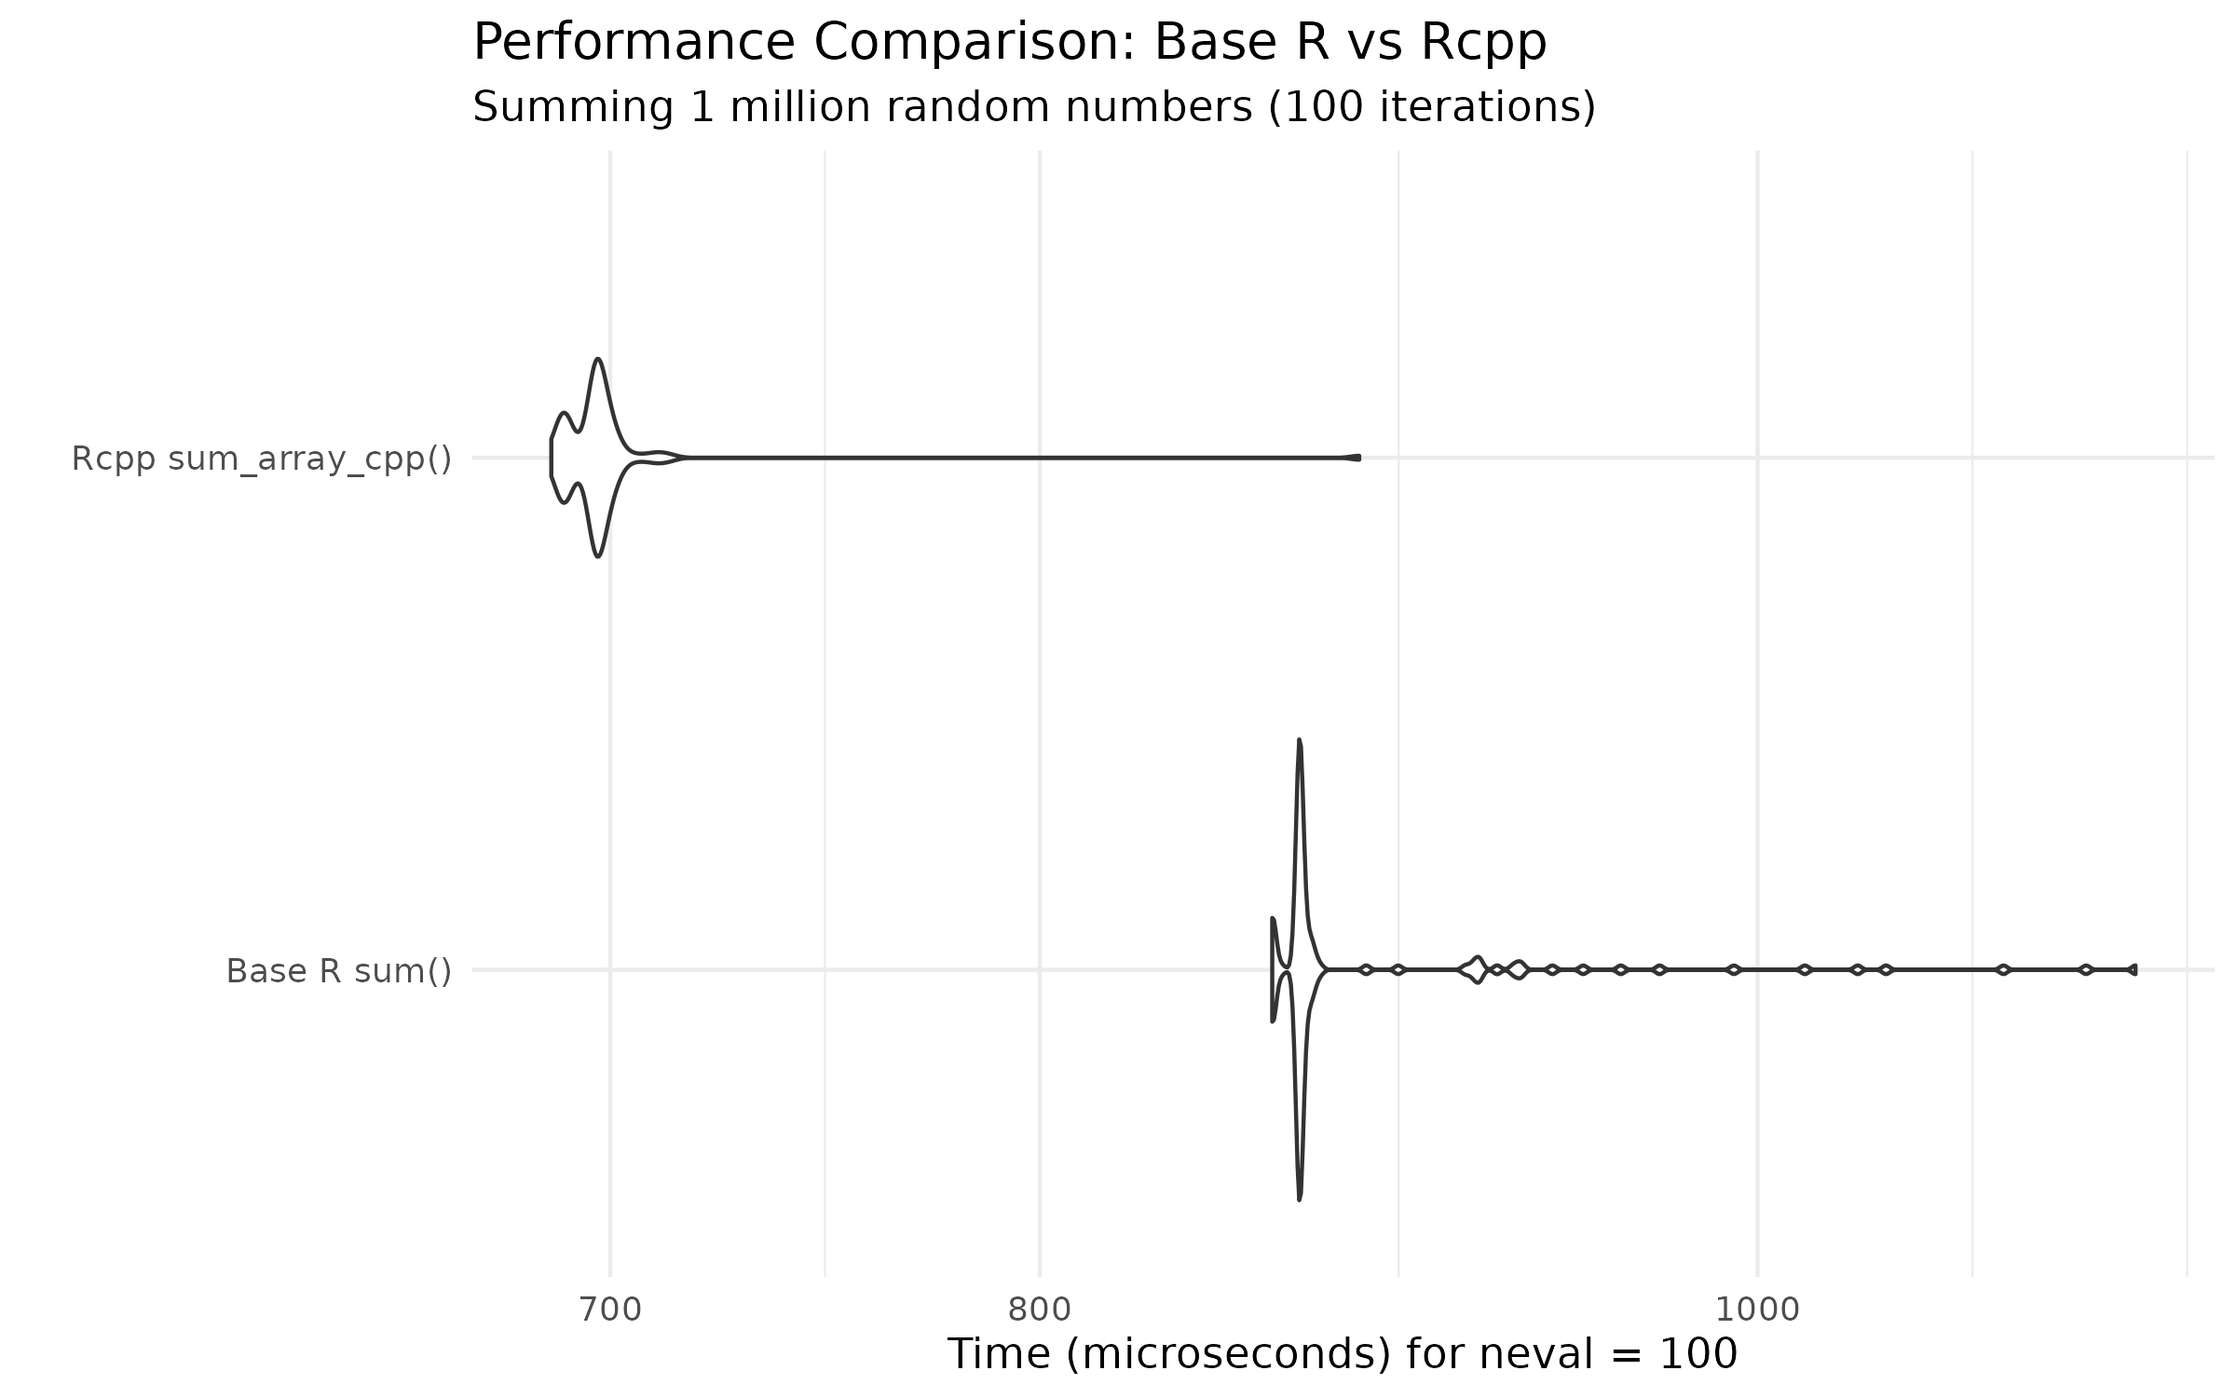
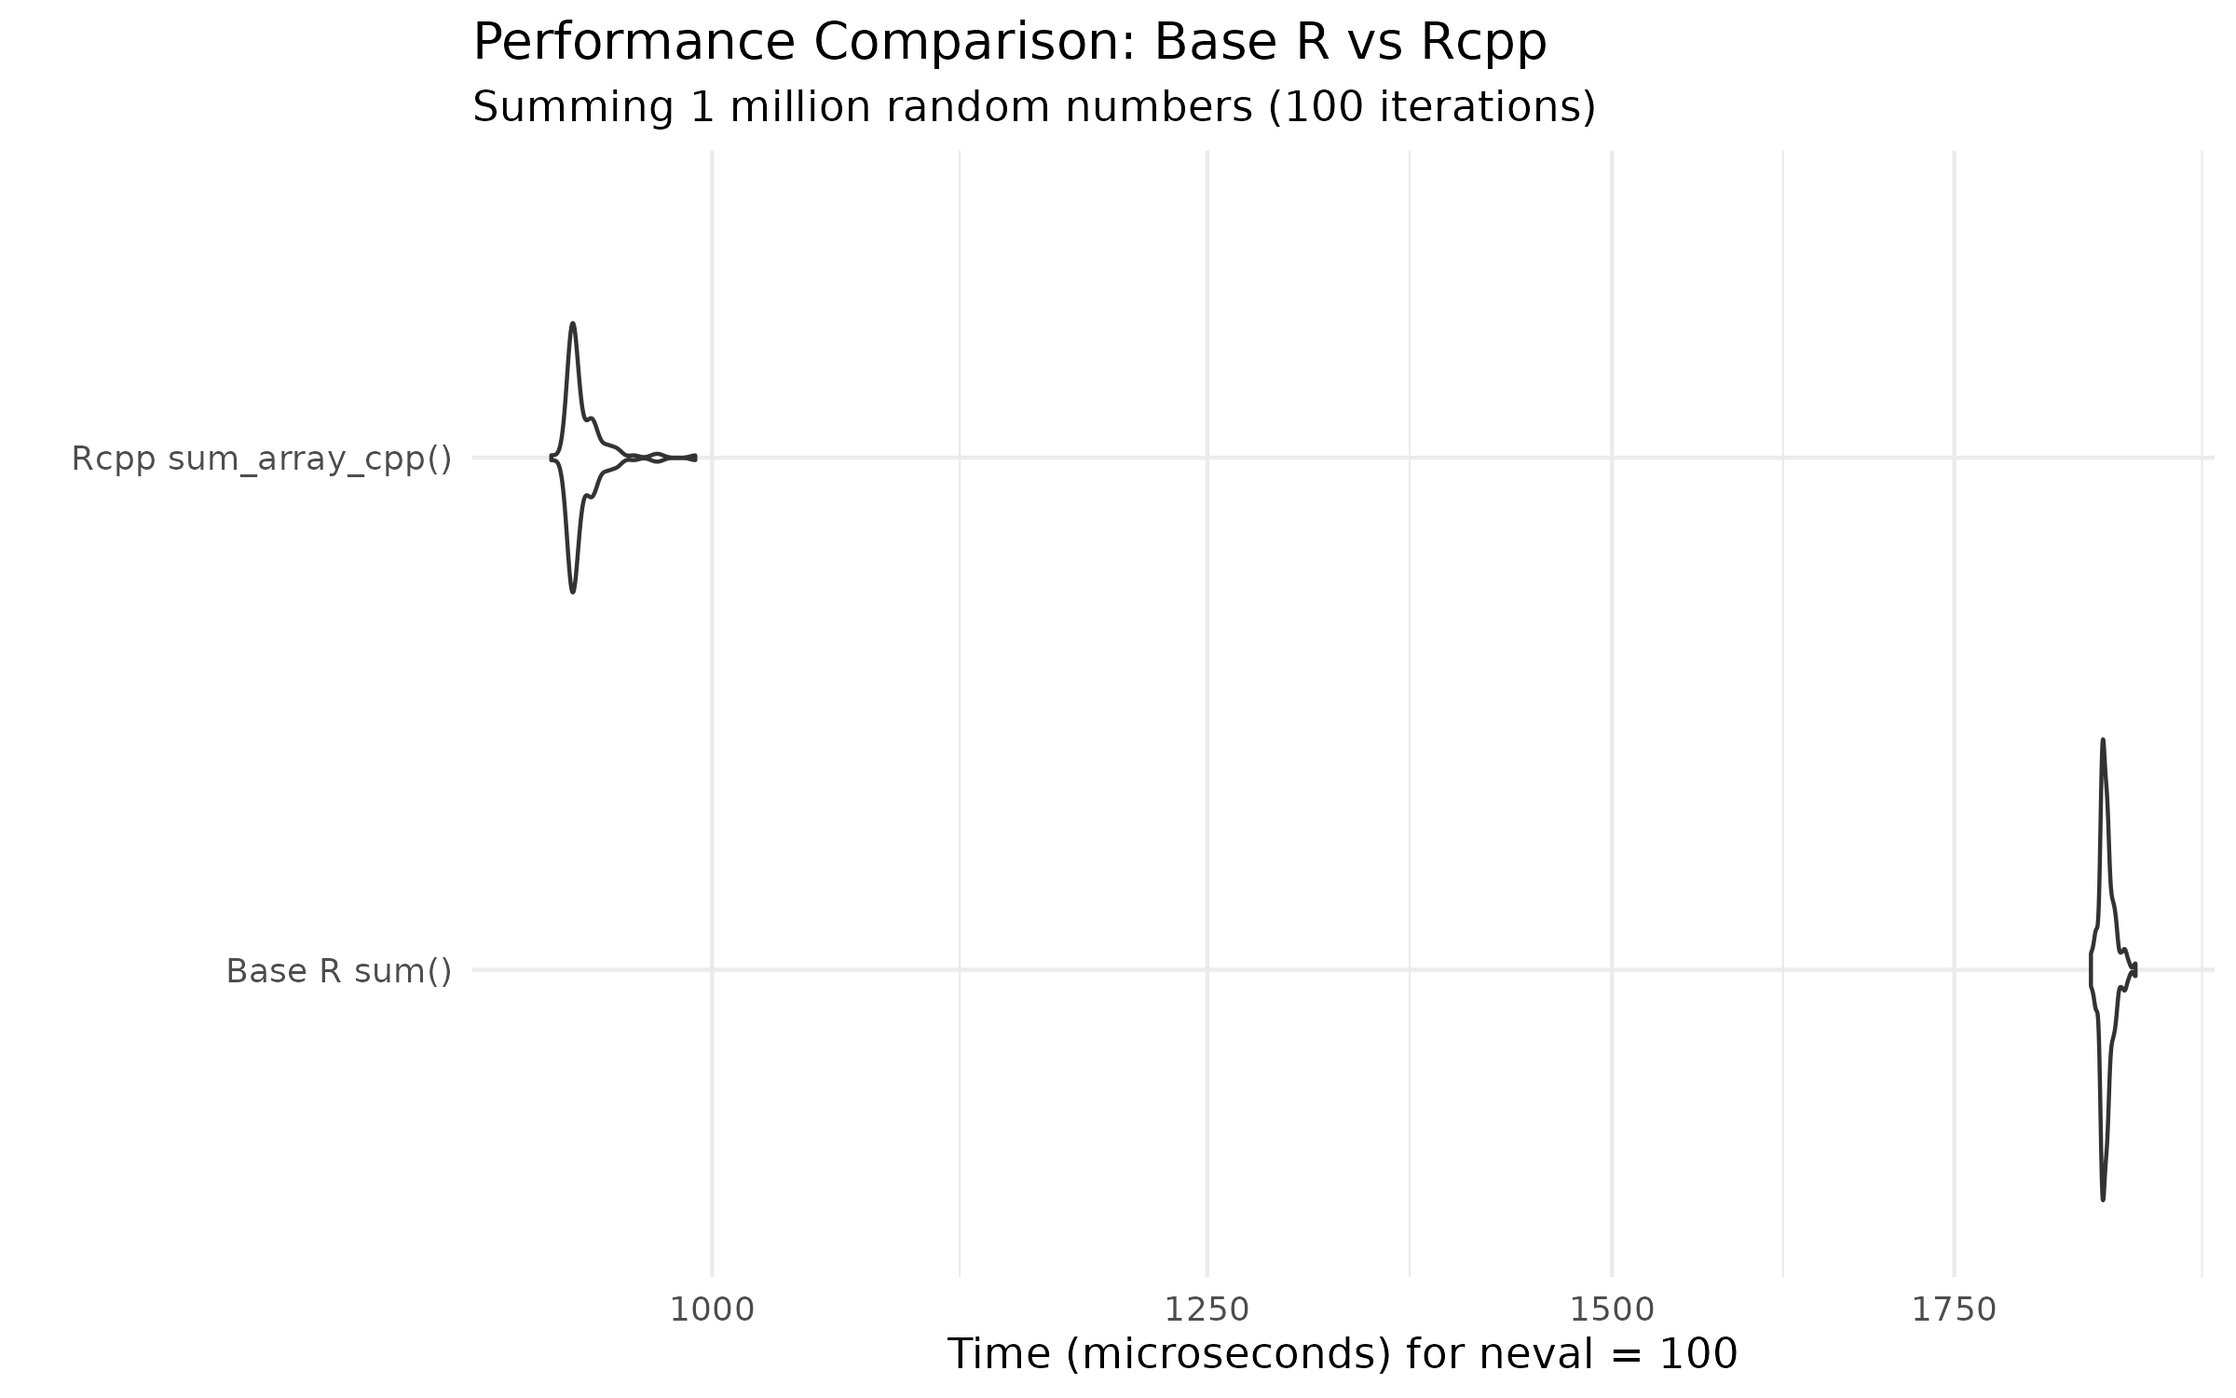
Deploying to gh-pages from @ derecksprojects/templateRpackage@f03f837e15552ce6c9e45e77da7d2b01e4fdd7cd 🚀

diff --git a/index.html b/index.html
@@ -54,22 +54,160 @@
   <main id="main" class="col-md-9"><div class="section level1">
 <div class="page-header"><h1 id="templaterpackage">templateRpackage<a class="anchor" aria-label="anchor" href="#templaterpackage"></a>
 </h1></div>
-<p>A template for R packages.</p>
+<p>A modern template for R packages with Rcpp, CI/CD, and documentation.</p>
+<div class="section level2">
+<h2 id="features">Features<a class="anchor" aria-label="anchor" href="#features"></a>
+</h2>
+<table class="table">
+<colgroup>
+<col width="50%">
+<col width="50%">
+</colgroup>
+<thead><tr class="header">
+<th>Feature</th>
+<th>Description</th>
+</tr></thead>
+<tbody>
+<tr class="odd">
+<td><strong>Rcpp</strong></td>
+<td>C++ integration with example function using loop unrolling</td>
+</tr>
+<tr class="even">
+<td><strong>testthat</strong></td>
+<td>Unit testing framework with separate test files</td>
+</tr>
+<tr class="odd">
+<td><strong>roxygen2</strong></td>
+<td>Documentation generation from code comments</td>
+</tr>
+<tr class="even">
+<td><strong>pkgdown</strong></td>
+<td>Automatic documentation website</td>
+</tr>
+<tr class="odd">
+<td><strong>renv</strong></td>
+<td>Reproducible dependency management</td>
+</tr>
+<tr class="even">
+<td><strong>GitHub Actions</strong></td>
+<td>CI/CD for R-CMD-check and pkgdown deployment</td>
+</tr>
+<tr class="odd">
+<td><strong>air</strong></td>
+<td>Extremely fast R code formatter (Rust-based)</td>
+</tr>
+</tbody>
+</table>
+</div>
+<div class="section level2">
+<h2 id="project-structure">Project Structure<a class="anchor" aria-label="anchor" href="#project-structure"></a>
+</h2>
+<div class="sourceCode" id="cb1"><pre class="sourceCode R"><code class="sourceCode r"><span id="cb1-1"><a href="#cb1-1" tabindex="-1"></a>├── R<span class="sc">/</span></span>
+<span id="cb1-2"><a href="#cb1-2" tabindex="-1"></a>│   ├── add.R              <span class="co"># Pure R function example</span></span>
+<span id="cb1-3"><a href="#cb1-3" tabindex="-1"></a>│   └── cpp.R              <span class="co"># Rcpp configuration</span></span>
+<span id="cb1-4"><a href="#cb1-4" tabindex="-1"></a>├── src<span class="sc">/</span></span>
+<span id="cb1-5"><a href="#cb1-5" tabindex="-1"></a>│   └── sum_array.cpp      <span class="co"># C++ function with Rcpp</span></span>
+<span id="cb1-6"><a href="#cb1-6" tabindex="-1"></a>├── tests<span class="sc">/</span>testthat<span class="sc">/</span>        <span class="co"># Unit tests</span></span>
+<span id="cb1-7"><a href="#cb1-7" tabindex="-1"></a>├── vignettes<span class="sc">/</span>             <span class="co"># Package vignettes</span></span>
+<span id="cb1-8"><a href="#cb1-8" tabindex="-1"></a>├── scripts<span class="sc">/</span></span>
+<span id="cb1-9"><a href="#cb1-9" tabindex="-1"></a>│   └── BUILD.sh           <span class="co"># Build automation script</span></span>
+<span id="cb1-10"><a href="#cb1-10" tabindex="-1"></a>├── .github<span class="sc">/</span>workflows<span class="sc">/</span>     <span class="co"># CI/CD workflows</span></span>
+<span id="cb1-11"><a href="#cb1-11" tabindex="-1"></a>└── _pkgdown.yml           <span class="co"># Documentation site config</span></span></code></pre></div>
+</div>
+<div class="section level2">
+<h2 id="build-commands">Build Commands<a class="anchor" aria-label="anchor" href="#build-commands"></a>
+</h2>
+<div class="sourceCode" id="cb2"><pre class="sourceCode bash"><code class="sourceCode bash"><span id="cb2-1"><a href="#cb2-1" tabindex="-1"></a><span class="co"># Full workflow: document → clean → build → check → install</span></span>
+<span id="cb2-2"><a href="#cb2-2" tabindex="-1"></a><span class="ex">./scripts/BUILD.sh</span> all</span>
+<span id="cb2-3"><a href="#cb2-3" tabindex="-1"></a></span>
+<span id="cb2-4"><a href="#cb2-4" tabindex="-1"></a><span class="co"># Quick development iteration (skip R CMD check)</span></span>
+<span id="cb2-5"><a href="#cb2-5" tabindex="-1"></a><span class="ex">./scripts/BUILD.sh</span> quick</span>
+<span id="cb2-6"><a href="#cb2-6" tabindex="-1"></a></span>
+<span id="cb2-7"><a href="#cb2-7" tabindex="-1"></a><span class="co"># Generate documentation only</span></span>
+<span id="cb2-8"><a href="#cb2-8" tabindex="-1"></a><span class="ex">./scripts/BUILD.sh</span> document</span>
+<span id="cb2-9"><a href="#cb2-9" tabindex="-1"></a></span>
+<span id="cb2-10"><a href="#cb2-10" tabindex="-1"></a><span class="co"># Format R code with air</span></span>
+<span id="cb2-11"><a href="#cb2-11" tabindex="-1"></a><span class="ex">./scripts/BUILD.sh</span> format</span>
+<span id="cb2-12"><a href="#cb2-12" tabindex="-1"></a></span>
+<span id="cb2-13"><a href="#cb2-13" tabindex="-1"></a><span class="co"># Check formatting (for CI)</span></span>
+<span id="cb2-14"><a href="#cb2-14" tabindex="-1"></a><span class="ex">./scripts/BUILD.sh</span> format-check</span>
+<span id="cb2-15"><a href="#cb2-15" tabindex="-1"></a></span>
+<span id="cb2-16"><a href="#cb2-16" tabindex="-1"></a><span class="co"># Build pkgdown site</span></span>
+<span id="cb2-17"><a href="#cb2-17" tabindex="-1"></a><span class="ex">./scripts/BUILD.sh</span> pkgdown</span>
+<span id="cb2-18"><a href="#cb2-18" tabindex="-1"></a></span>
+<span id="cb2-19"><a href="#cb2-19" tabindex="-1"></a><span class="co"># Render README.Rmd to README.md</span></span>
+<span id="cb2-20"><a href="#cb2-20" tabindex="-1"></a><span class="ex">./scripts/BUILD.sh</span> readme</span>
+<span id="cb2-21"><a href="#cb2-21" tabindex="-1"></a></span>
+<span id="cb2-22"><a href="#cb2-22" tabindex="-1"></a><span class="co"># See all options</span></span>
+<span id="cb2-23"><a href="#cb2-23" tabindex="-1"></a><span class="ex">./scripts/BUILD.sh</span> help</span></code></pre></div>
+</div>
+<div class="section level2">
+<h2 id="usage">Usage<a class="anchor" aria-label="anchor" href="#usage"></a>
+</h2>
+<div class="sourceCode" id="cb3"><pre class="downlit sourceCode r">
+<code class="sourceCode R"><span><span class="kw"><a href="https://rdrr.io/r/base/library.html" class="external-link">library</a></span><span class="op">(</span><span class="va"><a href="https://derecksprojects.github.io/templateRpackage">templateRpackage</a></span><span class="op">)</span></span>
+<span></span>
+<span><span class="co"># Pure R function</span></span>
+<span><span class="fu"><a href="reference/add.html">add</a></span><span class="op">(</span><span class="fl">1</span>, <span class="fl">2</span><span class="op">)</span></span>
+<span><span class="co">#&gt; [1] 3</span></span>
+<span></span>
+<span><span class="co"># Rcpp function (C++)</span></span>
+<span><span class="fu"><a href="reference/sum_array_cpp.html">sum_array_cpp</a></span><span class="op">(</span><span class="fl">1</span><span class="op">:</span><span class="fl">1000000</span><span class="op">)</span></span>
+<span><span class="co">#&gt; [1] 500000500000</span></span></code></pre></div>
+</div>
 <div class="section level2">
 <h2 id="installation">Installation<a class="anchor" aria-label="anchor" href="#installation"></a>
 </h2>
-<p>You can install <code>templateRpackage</code> using:</p>
-<div class="sourceCode" id="cb1"><pre class="downlit sourceCode r">
-<code class="sourceCode R"><span><span class="co"># install.packages("remotes")</span></span>
-<span><span class="fu">remotes</span><span class="fu">::</span><span class="fu">install_github</span><span class="op">(</span><span class="st">"derecksprojects/templateRpackage"</span><span class="op">)</span></span></code></pre></div>
-<p>Or from CRAN:</p>
-<div class="sourceCode" id="cb2"><pre class="downlit sourceCode r">
-<code class="sourceCode R"><span><span class="fu"><a href="https://rdrr.io/r/utils/install.packages.html" class="external-link">install.packages</a></span><span class="op">(</span><span class="st">"templateRpackage"</span><span class="op">)</span></span></code></pre></div>
+<div class="sourceCode" id="cb4"><pre class="downlit sourceCode r">
+<code class="sourceCode R"><span><span class="co"># From GitHub</span></span>
+<span><span class="co"># install.packages("remotes")</span></span>
+<span><span class="fu">remotes</span><span class="fu">::</span><span class="fu">install_github</span><span class="op">(</span><span class="st">"derecksprojects/templateRpackage"</span><span class="op">)</span></span>
+<span></span>
+<span><span class="co"># From CRAN (when available)</span></span>
+<span><span class="fu"><a href="https://rdrr.io/r/utils/install.packages.html" class="external-link">install.packages</a></span><span class="op">(</span><span class="st">"templateRpackage"</span><span class="op">)</span></span></code></pre></div>
+</div>
+<div class="section level2">
+<h2 id="using-this-template">Using This Template<a class="anchor" aria-label="anchor" href="#using-this-template"></a>
+</h2>
+<ol style="list-style-type: decimal">
+<li>Click “Use this template” on GitHub</li>
+<li>Clone your new repository</li>
+<li>Update <code>DESCRIPTION</code> with your package details</li>
+<li>Rename the package: update <code>DESCRIPTION</code>, <code>NAMESPACE</code>, and <code>_pkgdown.yml</code>
+</li>
+<li>Replace example functions in <code>R/</code> and <code>src/</code>
+</li>
+<li>Update tests in <code>tests/testthat/</code>
+</li>
+<li>Run <code>./scripts/BUILD.sh all</code> to verify everything works</li>
+</ol>
+<div class="section level3">
+<h3 id="requirements">Requirements<a class="anchor" aria-label="anchor" href="#requirements"></a>
+</h3>
+<ul>
+<li>R ≥ 4.0</li>
+<li>Rtools (Windows) or Xcode CLI (macOS) for C++ compilation</li>
+<li>
+<a href="https://posit-dev.github.io/air/" class="external-link">air</a> for code formatting (optional)</li>
+</ul>
+</div>
+</div>
+<div class="section level2">
+<h2 id="cicd">CI/CD<a class="anchor" aria-label="anchor" href="#cicd"></a>
+</h2>
+<p>GitHub Actions workflows included:</p>
+<ul>
+<li>
+<strong>R-CMD-check</strong>: Tests on macOS, Windows, Ubuntu with multiple R versions</li>
+<li>
+<strong>pkgdown</strong>: Builds and deploys documentation to GitHub Pages</li>
+</ul>
+<p>Both workflows use <code>concurrency</code> to cancel in-progress runs when new commits are pushed.</p>
 </div>
 <div class="section level2">
 <h2 id="license">License<a class="anchor" aria-label="anchor" href="#license"></a>
 </h2>
-<p>This project is licensed under the MIT License.</p>
+<p>MIT License with Citation Requirement</p>
 </div>
 </div>
   </main><aside class="col-md-3"><div class="links">

diff --git a/articles/demo.html b/articles/demo.html
@@ -132,9 +132,9 @@ base R’s <code><a href="https://rdrr.io/r/base/sum.html" class="external-link"
 <span></span>
 <span><span class="fu"><a href="https://rdrr.io/r/base/print.html" class="external-link">print</a></span><span class="op">(</span><span class="va">mb</span><span class="op">)</span></span>
 <span><span class="co">#&gt; Unit: microseconds</span></span>
-<span><span class="co">#&gt;                  expr     min       lq     mean   median       uq      max</span></span>
-<span><span class="co">#&gt;          Base R sum() 859.953 867.1935 888.6408 867.3795 870.8615 1124.649</span></span>
-<span><span class="co">#&gt;  Rcpp sum_array_cpp() 687.301 691.7085 698.2735 696.9235 698.3855  883.523</span></span>
+<span><span class="co">#&gt;                  expr      min        lq      mean   median       uq      max</span></span>
+<span><span class="co">#&gt;          Base R sum() 1861.160 1870.6275 1874.3873 1873.022 1876.715 1898.920</span></span>
+<span><span class="co">#&gt;  Rcpp sum_array_cpp()  930.144  938.7905  943.6515  939.552  946.865  992.481</span></span>
 <span><span class="co">#&gt;  neval</span></span>
 <span><span class="co">#&gt;    100</span></span>
 <span><span class="co">#&gt;    100</span></span></code></pre></div>

diff --git a/index.md b/index.md
@@ -1,22 +1,116 @@
 # templateRpackage
 
-A template for R packages.
+A modern template for R packages with Rcpp, CI/CD, and documentation.
+
+## Features
+
+| Feature            | Description                                                |
+|--------------------|------------------------------------------------------------|
+| **Rcpp**           | C++ integration with example function using loop unrolling |
+| **testthat**       | Unit testing framework with separate test files            |
+| **roxygen2**       | Documentation generation from code comments                |
+| **pkgdown**        | Automatic documentation website                            |
+| **renv**           | Reproducible dependency management                         |
+| **GitHub Actions** | CI/CD for R-CMD-check and pkgdown deployment               |
+| **air**            | Extremely fast R code formatter (Rust-based)               |
+
+## Project Structure
+
+``` R
+├── R/
+│   ├── add.R              # Pure R function example
+│   └── cpp.R              # Rcpp configuration
+├── src/
+│   └── sum_array.cpp      # C++ function with Rcpp
+├── tests/testthat/        # Unit tests
+├── vignettes/             # Package vignettes
+├── scripts/
+│   └── BUILD.sh           # Build automation script
+├── .github/workflows/     # CI/CD workflows
+└── _pkgdown.yml           # Documentation site config
+```
+
+## Build Commands
+
+``` bash
+# Full workflow: document → clean → build → check → install
+./scripts/BUILD.sh all
+
+# Quick development iteration (skip R CMD check)
+./scripts/BUILD.sh quick
+
+# Generate documentation only
+./scripts/BUILD.sh document
+
+# Format R code with air
+./scripts/BUILD.sh format
+
+# Check formatting (for CI)
+./scripts/BUILD.sh format-check
+
+# Build pkgdown site
+./scripts/BUILD.sh pkgdown
+
+# Render README.Rmd to README.md
+./scripts/BUILD.sh readme
+
+# See all options
+./scripts/BUILD.sh help
+```
+
+## Usage
+
+``` r
+library(templateRpackage)
+
+# Pure R function
+add(1, 2)
+#> [1] 3
+
+# Rcpp function (C++)
+sum_array_cpp(1:1000000)
+#> [1] 500000500000
+```
 
 ## Installation
 
-You can install `templateRpackage` using:
-
 ``` r
+# From GitHub
 # install.packages("remotes")
 remotes::install_github("derecksprojects/templateRpackage")
-```
 
-Or from CRAN:
-
-``` r
+# From CRAN (when available)
 install.packages("templateRpackage")
 ```
 
+## Using This Template
+
+1.  Click “Use this template” on GitHub
+2.  Clone your new repository
+3.  Update `DESCRIPTION` with your package details
+4.  Rename the package: update `DESCRIPTION`, `NAMESPACE`, and
+    `_pkgdown.yml`
+5.  Replace example functions in `R/` and `src/`
+6.  Update tests in `tests/testthat/`
+7.  Run `./scripts/BUILD.sh all` to verify everything works
+
+### Requirements
+
+- R ≥ 4.0
+- Rtools (Windows) or Xcode CLI (macOS) for C++ compilation
+- [air](https://posit-dev.github.io/air/) for code formatting (optional)
+
+## CI/CD
+
+GitHub Actions workflows included:
+
+- **R-CMD-check**: Tests on macOS, Windows, Ubuntu with multiple R
+  versions
+- **pkgdown**: Builds and deploys documentation to GitHub Pages
+
+Both workflows use `concurrency` to cancel in-progress runs when new
+commits are pushed.
+
 ## License
 
-This project is licensed under the MIT License.
+MIT License with Citation Requirement

diff --git a/articles/demo.md b/articles/demo.md
@@ -72,9 +72,9 @@ mb <- microbenchmark(
 
 print(mb)
 #> Unit: microseconds
-#>                  expr     min       lq     mean   median       uq      max
-#>          Base R sum() 859.953 867.1935 888.6408 867.3795 870.8615 1124.649
-#>  Rcpp sum_array_cpp() 687.301 691.7085 698.2735 696.9235 698.3855  883.523
+#>                  expr      min        lq      mean   median       uq      max
+#>          Base R sum() 1861.160 1870.6275 1874.3873 1873.022 1876.715 1898.920
+#>  Rcpp sum_array_cpp()  930.144  938.7905  943.6515  939.552  946.865  992.481
 #>  neval
 #>    100
 #>    100
